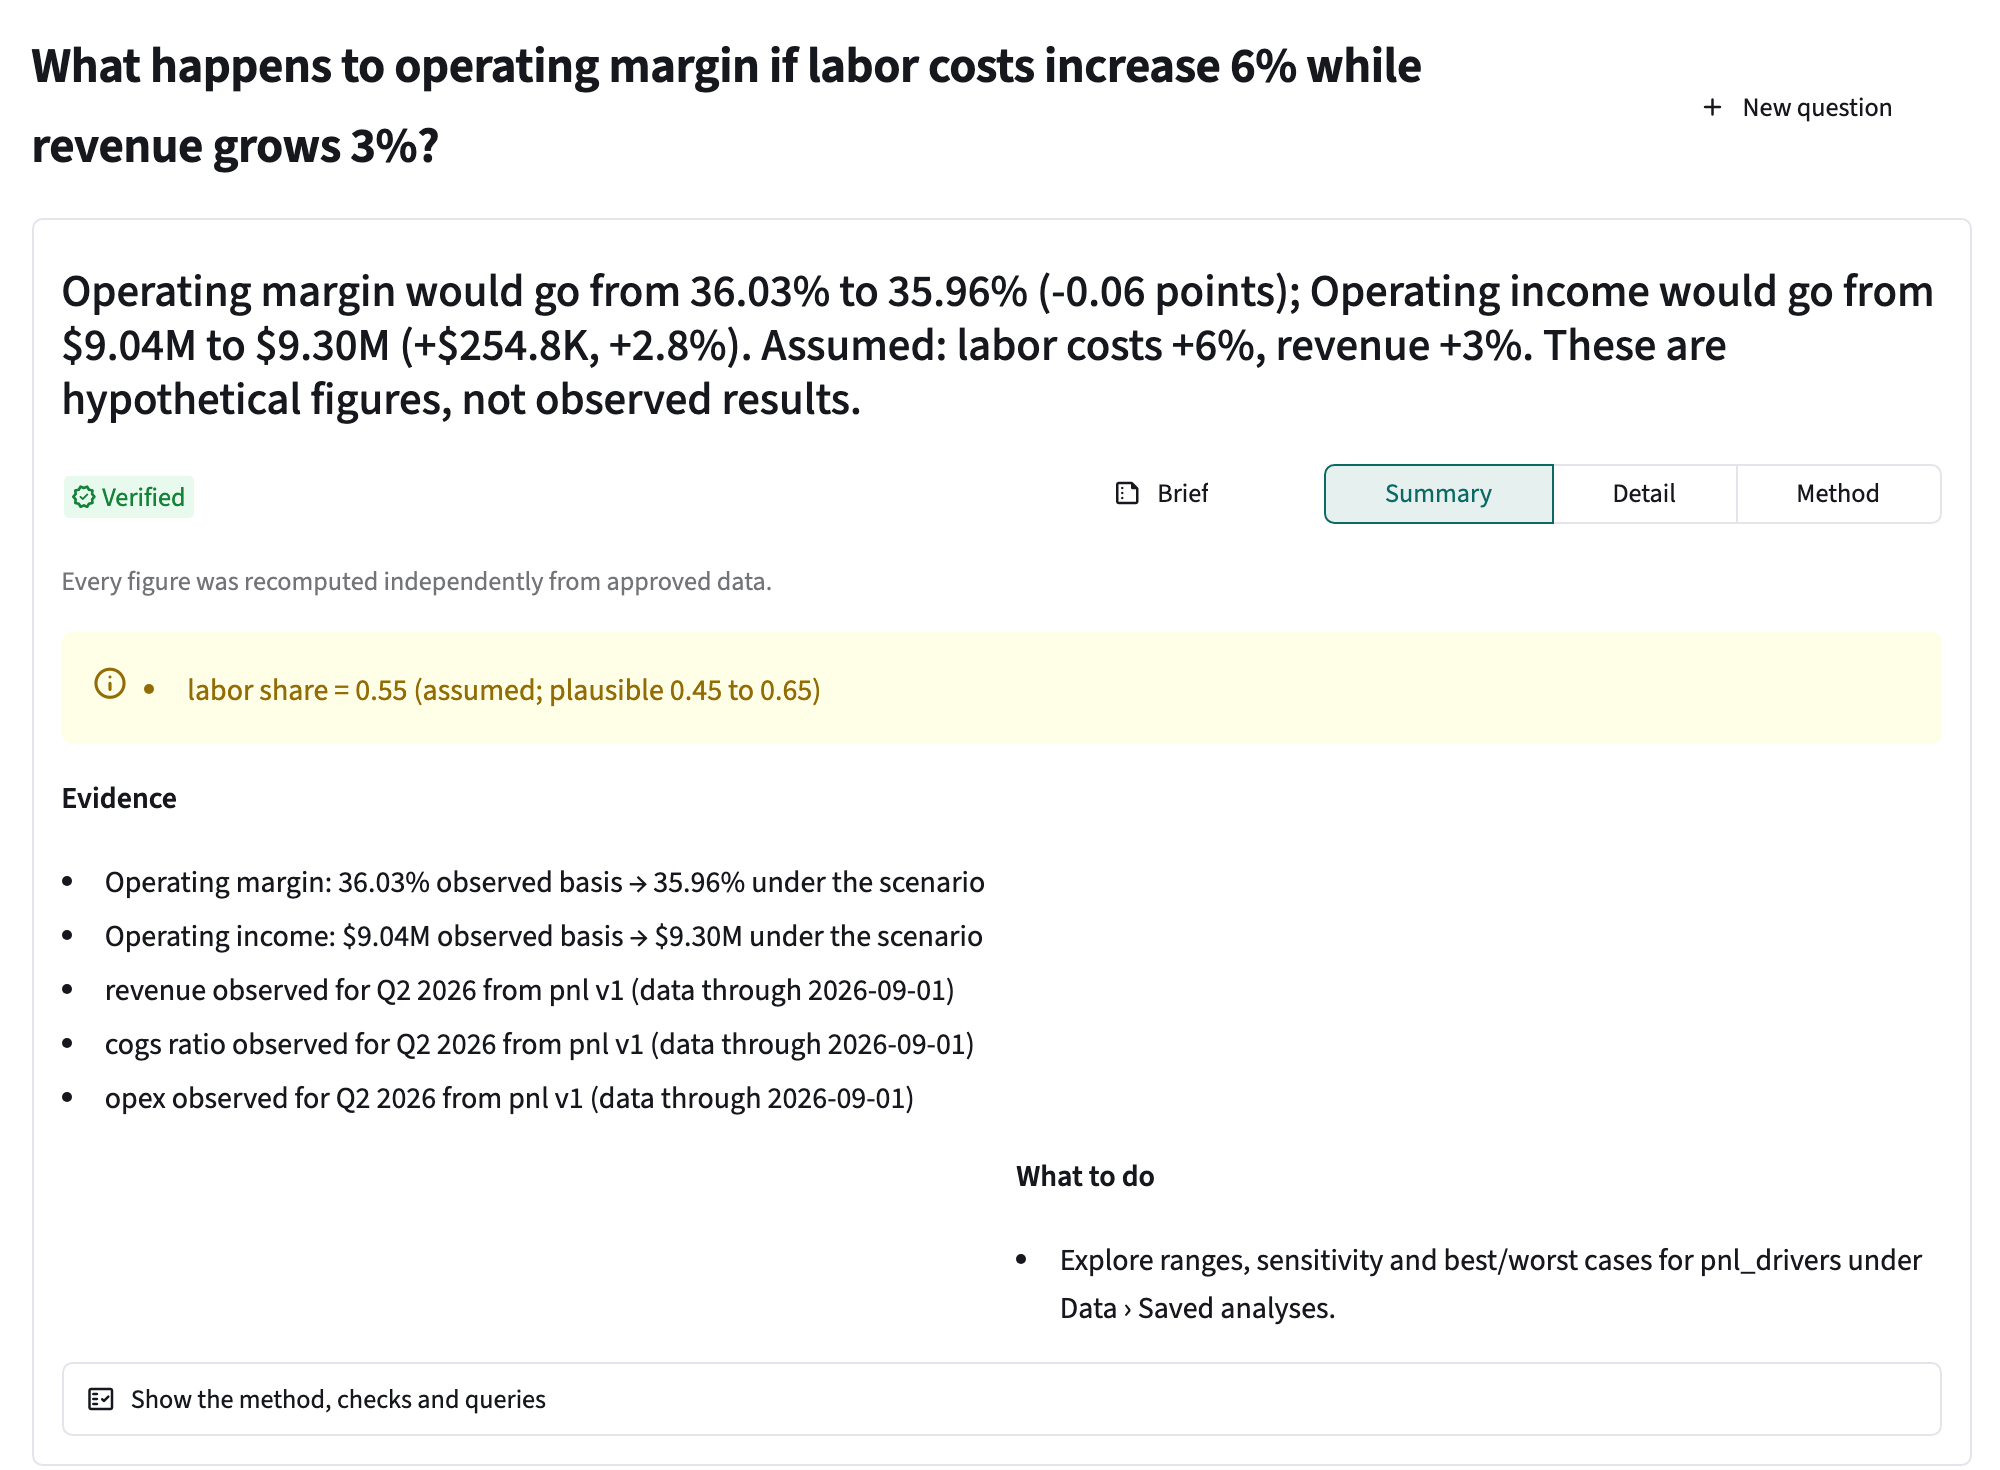
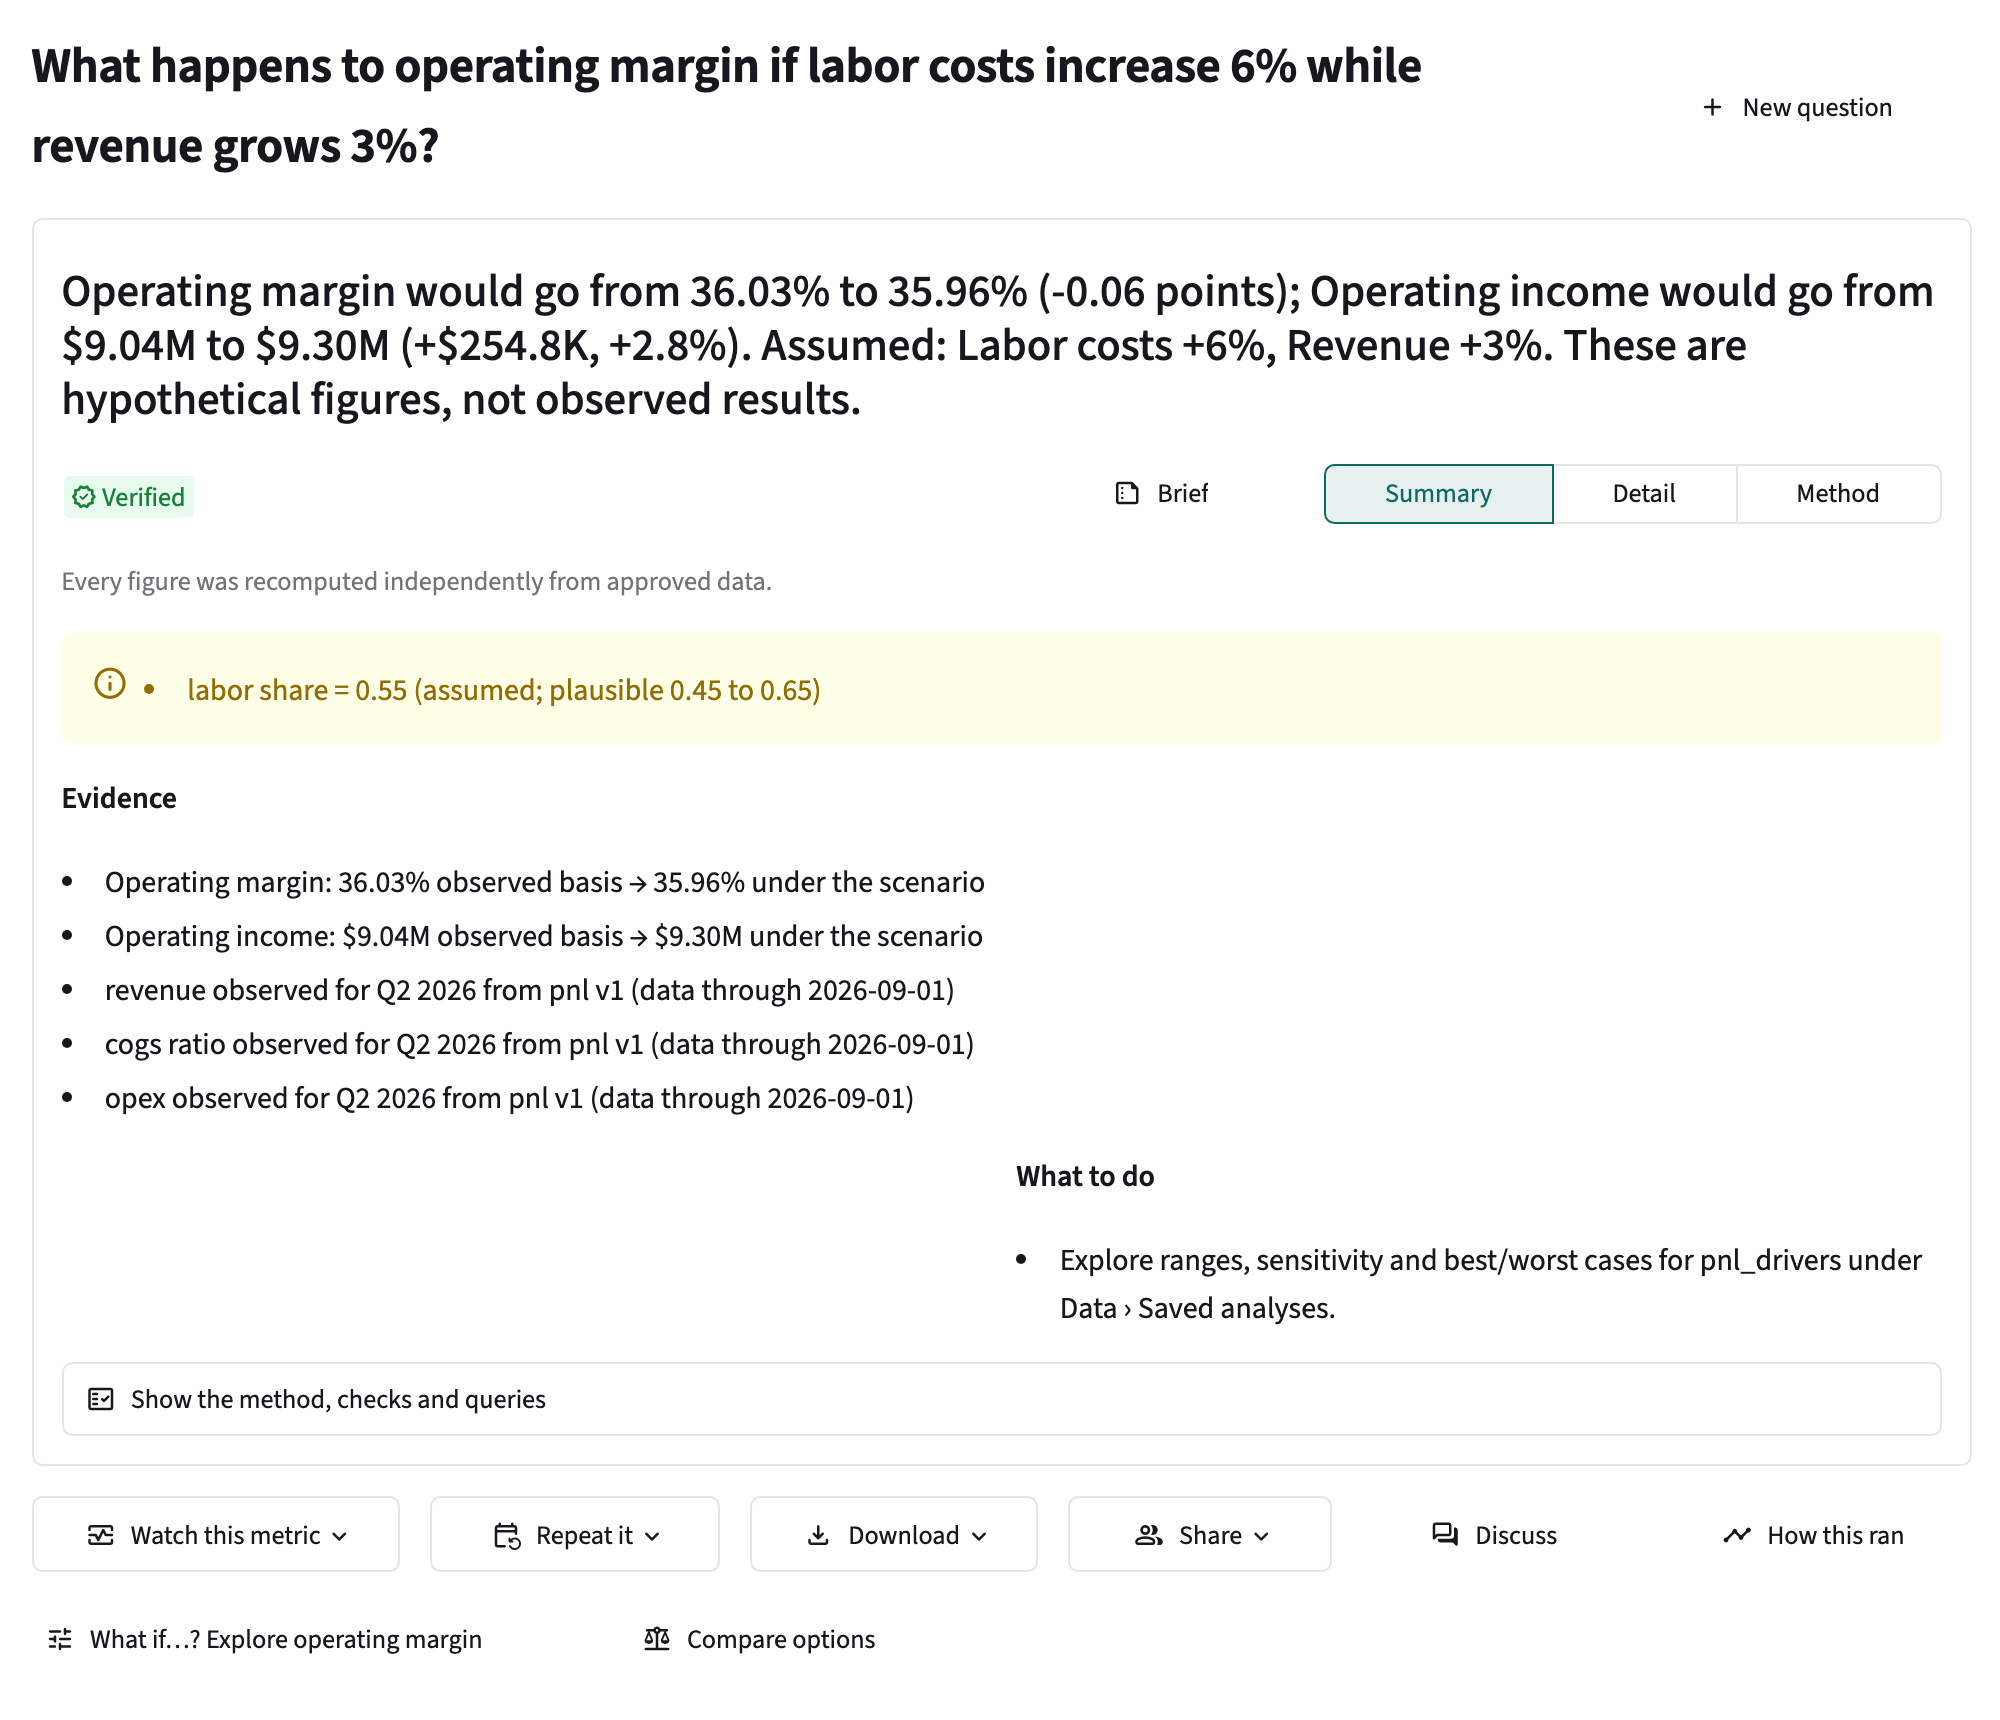
README: What if explorer and Compare options (#71), evaluation gate and measured routing (#69), fresh what-if screenshots

diff --git a/README.md b/README.md
@@ -103,15 +103,23 @@ Lyst could not apply is stated, and such an answer is never marked Verified. Fro
 P50, P95 and the chance of falling below a threshold), and saved scenarios that can be rerun and compared, with
 any drift reported.
 
+On an answer whose metric has a driver model, **What if…? Explore** opens sliders for each driver, shows base →
+scenario marked Better or Worse, where the starting figures come from, **How sensitive is it?** and **Save this
+scenario**. Saved scenarios live in Data › Saved analyses › Scenarios with Explore, Open and Re-run.
+
 Decisions get the same care. Lyst tells an analytical question apart from a decision that needs authority,
 compares options on weighted criteria and constraints under uncertainty, finds where the leading option would
 change, and allocates budgets with an exact solver. It says "insufficient evidence" or "no clear winner" rather
 than claim one. A **decision record** goes from analyzed to submitted to approved or rejected by a person, who
-may pick a different option, and is later reviewed against what actually happened. Nothing is executed.
+may pick a different option, and is later reviewed against what actually happened. Nothing is executed. Editors
+start one with **Compare options** on an answer, and records are listed in Work › Activity › Decisions.
 
-<p align="center">
-  <img src="docs/images/what-if.png" alt="A what-if answer: operating margin from 36.03% to 35.96% under the stated assumptions, labelled hypothetical, with the assumed labor share and the observed inputs as evidence" width="80%">
-</p>
+<table>
+  <tr>
+    <td width="45%"><img src="docs/images/what-if.png" alt="A what-if answer labelled hypothetical, with the assumed labor share, observed inputs as evidence, and What if and Compare options under the answer"><br><b>A what-if answer</b>: hypothetical, with its inputs</td>
+    <td width="55%"><img src="docs/images/what-if-explore.png" alt="The What if explorer: driver sliders, operating margin 36.0% to 34.9% marked Worse, what moves it most, worst/base/best cases and a 90% range from 2,000 simulations"><br><b>What if…?</b>: move the drivers, see what moves it most</td>
+  </tr>
+</table>
 
 ### Dashboards from a sentence
 
@@ -263,6 +271,11 @@ where they point, with Mark all read and "What to tell me about".
 * **Speaks your fiscal calendar.** The fiscal year start in the business profile drives "last quarter", "FY2026",
   year to date and their comparisons, and quarterly and yearly charts, trends, dashboards, monitors and forecasts
   group by fiscal quarter and year, labelled like "Q4 FY2027". Calendar-year workspaces are unchanged.
+* **Guards its own quality.** Every change runs the evaluation bank against a checked-in baseline in CI, and a
+  check that stopped passing, a much slower case, heavier resource use or a missing case fails the run. Runs
+  report completion, correctness, evidence and efficiency by category. Model routing is measured: a model whose
+  recent calls for a kind of work mostly failed moves behind the healthy ones in its level (never promoted, and a
+  pinned model is never reordered), and a model registry shows prices, context and measured performance.
 * **Tests its own methods on your data.** Experiments compare forecasting methods (naive, seasonal naive, mean,
   drift, linear trend and ETS) on an approved metric with rolling-origin backtests and standard error measures,
   name a winner only when the difference is statistically significant, and otherwise recommend the simplest
